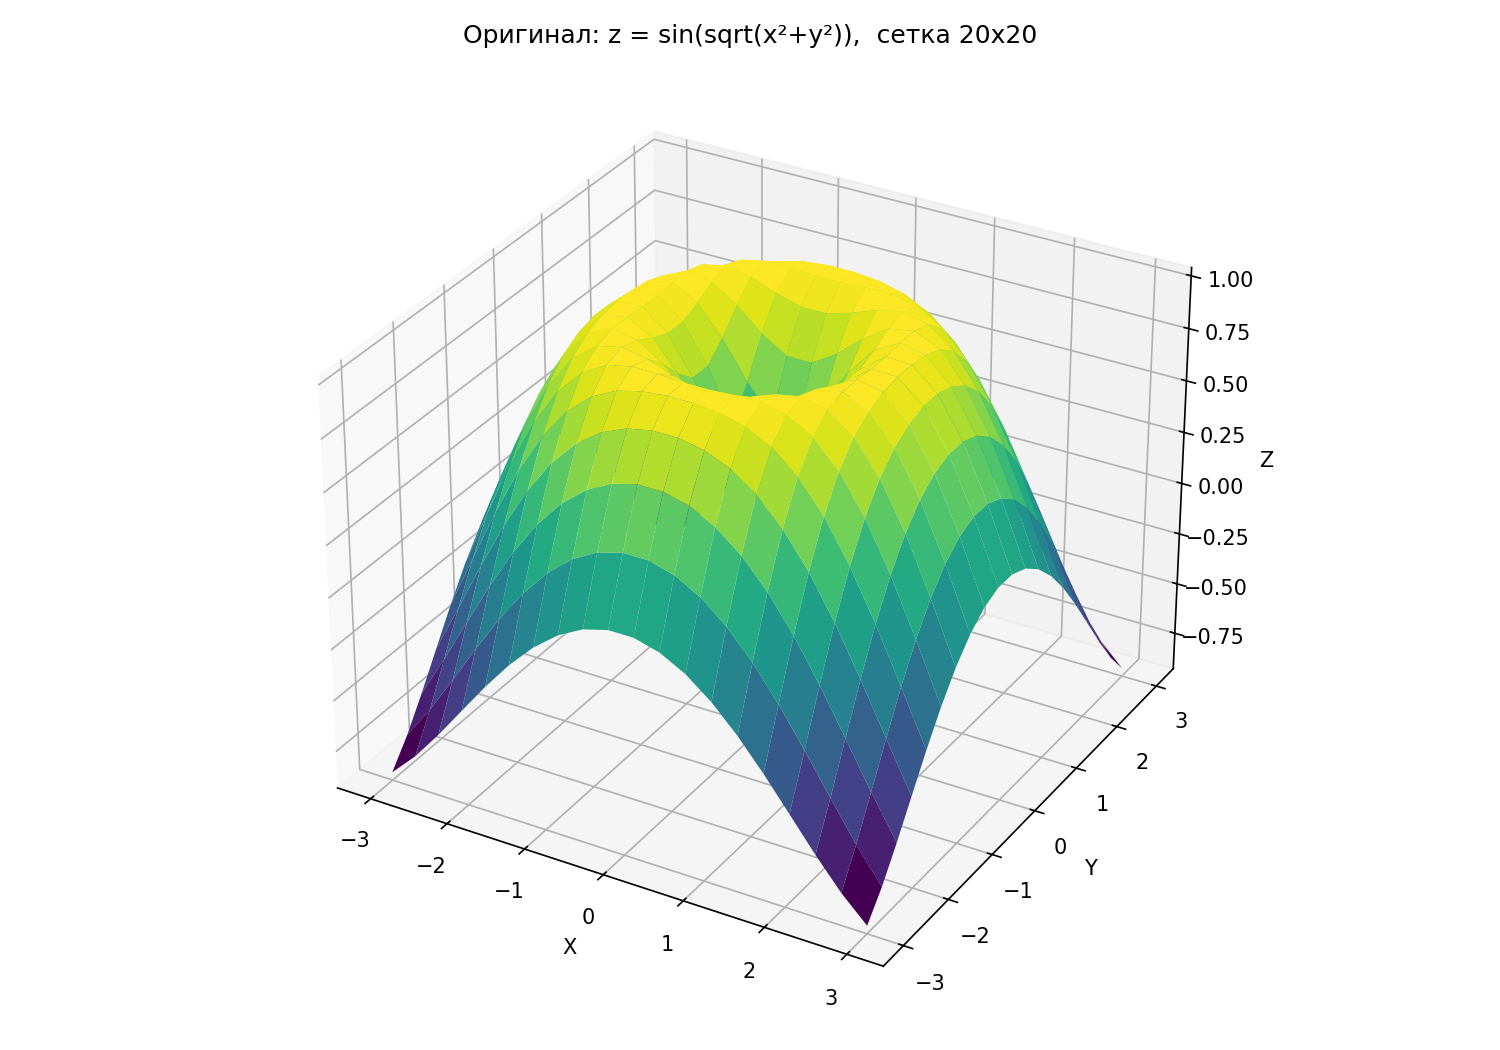
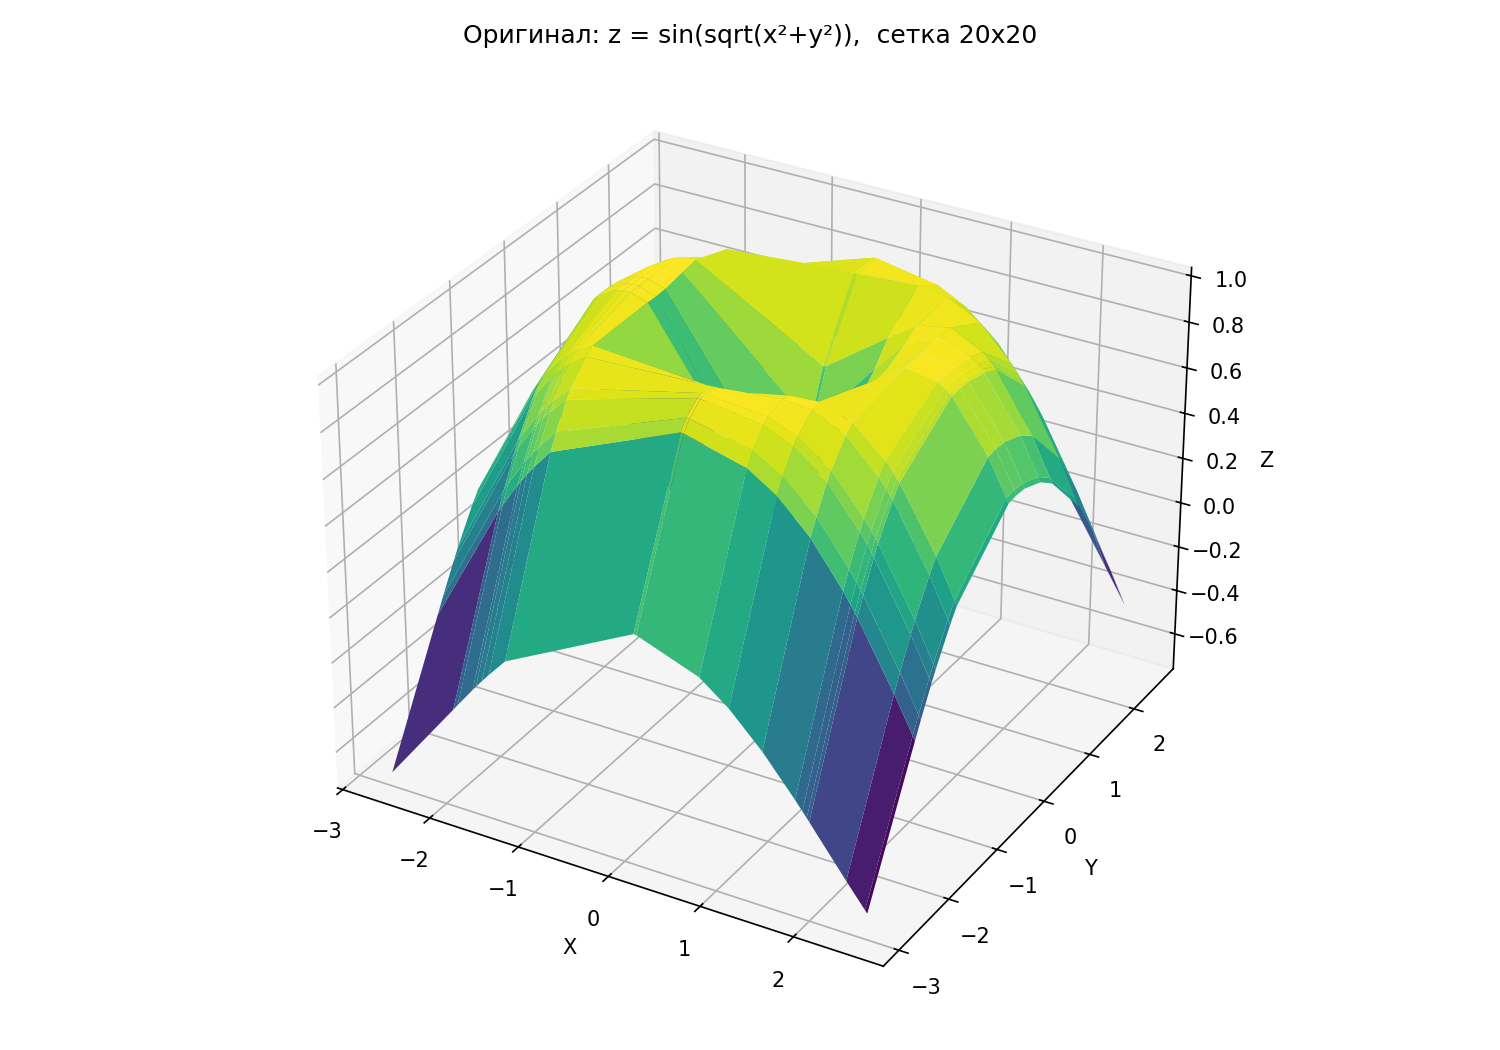
upd: lab

diff --git a/lab2/test_lab2.py b/lab2/test_lab2.py
@@ -7,47 +7,55 @@ TESTING_DIR = Path(__file__).parent / "testing"
 TESTING_DIR.mkdir(exist_ok=True)
 
 # Параметры тестов
-# Тест 1: аналитическая функция
-N_GRID = 20 # размер сетки n x n
-X_RANGE = (-3, 3) # диапазон x
-Y_RANGE = (-3, 3) # диапазон y
-Z_RANGE = (-1, 1) # ограничение на z
-# Тест 2: псевдослучайная сетка
-NX, NY = 10, 10 # размер сетки (можно 20x10 и т.д.)
-Z_MIN, Z_MAX = -1, 1 # ограничения на z
-SEED = 42 # seed генератора
-# Тест 3: сгущение
-DENSIFY_SIZES = [20, 30] # до каких размеров m x m сгущать
+N_GRID = 20
+X_RANGE = (-3, 3)
+Y_RANGE = (-3, 3)
+Z_RANGE = (-1, 1)
+SEED_T1 = 123
 
-def normalize(v):
-    lo, hi = v.min(), v.max()
+NX, NY = 10, 10
+Z_MIN, Z_MAX = -1, 1
+SEED_T2 = 42
+
+DENSIFY_SIZES = [20, 30]
+
+
+def _to_norm(v, lo, hi):
     return 2 * (v - lo) / (hi - lo) - 1
 
-# Тест 1: z = sin(sqrt(x^2+y^2)), погрешность между узлами интерполяции
 
-def test_analytical(n=20, x_range=(-3, 3), y_range=(-3, 3), z_range=(-1, 1)):
+def test_analytical(n=20, x_range=(-3, 3), y_range=(-3, 3),
+                    z_range=(-1, 1), seed=123):
     print("=" * 65)
-    print(f"  Тест 1: z = sin(sqrt(x^2+y^2)),  сетка {n}x{n}")
+    print(f"  Тест 1: z = sin(sqrt(x^2+y^2)),  псевдослучайная сетка {n}x{n}")
     print(f"  x in {list(x_range)},  y in {list(y_range)},  z in {list(z_range)}")
     print("=" * 65)
-    x = np.linspace(*x_range, n)
-    y = np.linspace(*y_range, n)
+
+    rng = np.random.default_rng(seed)
+    x = np.sort(rng.uniform(*x_range, n))
+    y = np.sort(rng.uniform(*y_range, n))
     X, Y = np.meshgrid(x, y, indexing="ij")
     A = np.sin(np.sqrt(X**2 + Y**2))
-    # промежуточные точки
+
+    print(f"  x = {np.array2string(x, precision=3, separator=', ')}")
+    print(f"  y = {np.array2string(y, precision=3, separator=', ')}")
+
+    x_lo, x_hi = x.min(), x.max()
+    y_lo, y_hi = y.min(), y.max()
+    x_norm = _to_norm(x, x_lo, x_hi)
+    y_norm = _to_norm(y, y_lo, y_hi)
+
     x_mid = (x[:-1] + x[1:]) / 2
     y_mid = (y[:-1] + y[1:]) / 2
     Xm, Ym = np.meshgrid(x_mid, y_mid, indexing="ij")
     Z_true = np.sin(np.sqrt(Xm**2 + Ym**2))
-    # нормализация
-    to_norm = lambda v: 2 * (v - x_range[0]) / (x_range[1] - x_range[0]) - 1
-    x_mid_norm = to_norm(x_mid)
-    y_mid_norm = to_norm(y_mid)
-    # поиск минимума MAX погрешности между узлами
+    x_mid_norm = _to_norm(x_mid, x_lo, x_hi)
+    y_mid_norm = _to_norm(y_mid, y_lo, y_hi)
+
     best_l, best_max = 2, np.inf
     results = []
     for l in range(2, n + 1):
-        D = compute_coefficients(A, l)
+        D = compute_coefficients(A, l, x_grid=x_norm, y_grid=y_norm)
         Z_model = reconstruct(D, x_mid_norm, y_mid_norm)
         err = np.abs(Z_model - Z_true)
         min_err = float(np.min(err))
@@ -56,11 +64,12 @@ def test_analytical(n=20, x_range=(-3, 3), y_range=(-3, 3), z_range=(-1, 1)):
         if max_err < best_max:
             best_max = max_err
             best_l = l
+
     best_min = [r[1] for r in results if r[0] == best_l][0]
-    print(f"  Лучшее l = {best_l}:")
+    print(f"\n  Лучшее l = {best_l}:")
     print(f"    MIN погрешности между узлами = {best_min:.6f}")
     print(f"    MAX погрешности между узлами = {best_max:.6f}")
-    # график: погрешность vs l
+
     ls = [r[0] for r in results]
     min_errs = [r[1] for r in results]
     max_errs = [r[2] for r in results]
@@ -70,13 +79,13 @@ def test_analytical(n=20, x_range=(-3, 3), y_range=(-3, 3), z_range=(-1, 1)):
     ax.axvline(best_l, color="g", ls="--", alpha=0.7, label=f"лучшее l={best_l}")
     ax.set_xlabel("l")
     ax.set_ylabel("Погрешность между узлами")
-    ax.set_title(f"z = sin(sqrt(x^2+y^2)),  сетка {n}x{n}")
+    ax.set_title(f"z = sin(sqrt(x²+y²)),  псевдослучайная сетка {n}x{n}")
     ax.legend()
     ax.grid(True, alpha=0.3)
     fig.tight_layout()
     fig.savefig(TESTING_DIR / "test1_analytical.png", dpi=150)
     plt.close(fig)
-    # 3D: оригинал
+
     fig = plt.figure(figsize=(10, 7))
     ax = fig.add_subplot(111, projection="3d")
     ax.plot_surface(X, Y, A, cmap="viridis", linewidth=0, antialiased=True)
@@ -85,58 +94,75 @@ def test_analytical(n=20, x_range=(-3, 3), y_range=(-3, 3), z_range=(-1, 1)):
     fig.tight_layout()
     fig.savefig(TESTING_DIR / "test1_original.png", dpi=150)
     plt.close(fig)
-    # 3D: восстановленная модель
-    D_best = compute_coefficients(A, best_l)
-    xn = to_norm(x)
-    yn = to_norm(y)
-    Z_model = reconstruct(D_best, xn, yn)
+
+    D_best = compute_coefficients(A, best_l, x_grid=x_norm, y_grid=y_norm)
+    m_vis = 60
+    xg = np.linspace(-1, 1, m_vis)
+    yg = np.linspace(-1, 1, m_vis)
+    Z_vis = reconstruct(D_best, xg, yg)
+    x_vis = np.linspace(x_lo, x_hi, m_vis)
+    y_vis = np.linspace(y_lo, y_hi, m_vis)
+    Xv, Yv = np.meshgrid(x_vis, y_vis, indexing="ij")
+
     fig = plt.figure(figsize=(10, 7))
     ax = fig.add_subplot(111, projection="3d")
-    ax.plot_surface(X, Y, Z_model, cmap="viridis", linewidth=0, antialiased=True)
+    ax.plot_surface(Xv, Yv, Z_vis, cmap="viridis", linewidth=0, antialiased=True)
     ax.set_xlabel("X"); ax.set_ylabel("Y"); ax.set_zlabel("Z")
     ax.set_title(f"Восстановленная модель (l={best_l}),  MAX={best_max:.4f}")
     fig.tight_layout()
     fig.savefig(TESTING_DIR / "test1_reconstructed.png", dpi=150)
     plt.close(fig)
+
     return A, best_l
 
-# Тест 2: псевдослучайная сетка
-def test_random(nx=10, ny=10, x_range=(-3, 3), y_range=(-3, 3), z_min=-1, z_max=1, seed=42):
+
+def test_random(nx=10, ny=10, x_range=(-3, 3), y_range=(-3, 3),
+                z_min=-1, z_max=1, seed=42):
     print(f"\n{'='*65}")
     print(f"  Тест 2: псевдослучайная сетка {nx}x{ny},  z in [{z_min}, {z_max}]")
     print("=" * 65)
+
     rng = np.random.default_rng(seed)
     x = np.sort(rng.uniform(*x_range, nx))
     y = np.sort(rng.uniform(*y_range, ny))
     Z = rng.uniform(z_min, z_max, (nx, ny))
+
     print(f"  x = {np.array2string(x, precision=3, separator=', ')}")
     print(f"  y = {np.array2string(y, precision=3, separator=', ')}")
     print(f"\n  Исходная матрица Z ({nx}x{ny}):")
     _print_matrix(Z, x, y)
-    x_norm = normalize(x)
-    y_norm = normalize(y)
+
+    x_lo, x_hi = x.min(), x.max()
+    y_lo, y_hi = y.min(), y.max()
+    x_norm = _to_norm(x, x_lo, x_hi)
+    y_norm = _to_norm(y, y_lo, y_hi)
     l_max = min(nx, ny)
-    x_mid = (x_norm[:-1] + x_norm[1:]) / 2
-    y_mid = (y_norm[:-1] + y_norm[1:]) / 2
+
+    x_mid_norm = (_to_norm(x[:-1], x_lo, x_hi) + _to_norm(x[1:], x_lo, x_hi)) / 2
+    y_mid_norm = (_to_norm(y[:-1], y_lo, y_hi) + _to_norm(y[1:], y_lo, y_hi)) / 2
+
     best_l = l_max
     results = []
     for l in range(2, l_max + 1):
         D = compute_coefficients(Z, l, x_grid=x_norm, y_grid=y_norm)
         Z_recon = reconstruct(D, x_norm, y_norm)
         err = np.abs(Z_recon - Z)
-        Z_mid = reconstruct(D, x_mid, y_mid)
+        Z_mid = reconstruct(D, x_mid_norm, y_mid_norm)
         overshoot = max(0.0, float(Z_mid.max()) - z_max, z_min - float(Z_mid.min()))
         results.append((l, float(np.min(err)), float(np.max(err)), overshoot))
+
     for l, mn, mx, ov in reversed(results):
         if ov < 0.5 * (z_max - z_min):
             best_l = l
             break
+
     D = compute_coefficients(Z, best_l, x_grid=x_norm, y_grid=y_norm)
     Z_recon = reconstruct(D, x_norm, y_norm)
     err = np.abs(Z_recon - Z)
     print(f"\n  Выбрано l = {best_l}:")
     print(f"    MIN погрешности в узлах = {float(np.min(err)):.2e}")
     print(f"    MAX погрешности в узлах = {float(np.max(err)):.2e}")
+
     ls = [r[0] for r in results]
     min_errs = [r[1] for r in results]
     max_errs = [r[2] for r in results]
@@ -152,7 +178,7 @@ def test_random(nx=10, ny=10, x_range=(-3, 3), y_range=(-3, 3), z_min=-1, z_max=
     fig.tight_layout()
     fig.savefig(TESTING_DIR / "test2_error.png", dpi=150)
     plt.close(fig)
-    # 3D: исходные точки
+
     Xo, Yo = np.meshgrid(x, y, indexing="ij")
     fig = plt.figure(figsize=(10, 7))
     ax = fig.add_subplot(111, projection="3d")
@@ -162,14 +188,15 @@ def test_random(nx=10, ny=10, x_range=(-3, 3), y_range=(-3, 3), z_min=-1, z_max=
     fig.tight_layout()
     fig.savefig(TESTING_DIR / "test2_original.png", dpi=150)
     plt.close(fig)
-    # 3D: восстановленная модель на более густой сетке
+
     m_vis = 40
     xg = np.linspace(-1, 1, m_vis)
     yg = np.linspace(-1, 1, m_vis)
     Z_vis = reconstruct(D, xg, yg)
-    x_vis = np.linspace(x.min(), x.max(), m_vis)
-    y_vis = np.linspace(y.min(), y.max(), m_vis)
+    x_vis = np.linspace(x_lo, x_hi, m_vis)
+    y_vis = np.linspace(y_lo, y_hi, m_vis)
     Xv, Yv = np.meshgrid(x_vis, y_vis, indexing="ij")
+
     fig = plt.figure(figsize=(10, 7))
     ax = fig.add_subplot(111, projection="3d")
     ax.plot_surface(Xv, Yv, Z_vis, cmap="terrain", linewidth=0, antialiased=True)
@@ -178,22 +205,26 @@ def test_random(nx=10, ny=10, x_range=(-3, 3), y_range=(-3, 3), z_min=-1, z_max=
     fig.tight_layout()
     fig.savefig(TESTING_DIR / "test2_reconstructed.png", dpi=150)
     plt.close(fig)
+
     return D, x, y, Z
 
-# Тест 3: сгущение сетки
+
 def test_densify(D, x_orig, y_orig, Z_orig, m=20):
     nx, ny = len(x_orig), len(y_orig)
     print(f"\n{'='*65}")
     print(f"  Тест 3: сгущение {nx}x{ny} -> {m}x{m}")
     print("=" * 65)
+
     xg = np.linspace(-1, 1, m)
     yg = np.linspace(-1, 1, m)
     Z_dense = reconstruct(D, xg, yg)
+
     x_phys = np.linspace(x_orig.min(), x_orig.max(), m)
     y_phys = np.linspace(y_orig.min(), y_orig.max(), m)
+
     print(f"\n  Сгущённая матрица высот ({m}x{m}):")
     _print_matrix(Z_dense, x_phys, y_phys)
-    # 3D: исходная сетка
+
     Xo, Yo = np.meshgrid(x_orig, y_orig, indexing="ij")
     fig = plt.figure(figsize=(10, 7))
     ax = fig.add_subplot(111, projection="3d")
@@ -203,7 +234,7 @@ def test_densify(D, x_orig, y_orig, Z_orig, m=20):
     fig.tight_layout()
     fig.savefig(TESTING_DIR / f"test3_original_{nx}x{ny}.png", dpi=150)
     plt.close(fig)
-    # 3D: сгущённая сетка
+
     X, Y = np.meshgrid(x_phys, y_phys, indexing="ij")
     fig = plt.figure(figsize=(10, 7))
     ax = fig.add_subplot(111, projection="3d")
@@ -213,7 +244,9 @@ def test_densify(D, x_orig, y_orig, Z_orig, m=20):
     fig.tight_layout()
     fig.savefig(TESTING_DIR / f"test3_densify_{m}.png", dpi=150)
     plt.close(fig)
+
     return Z_dense
+
 
 def _print_matrix(Z, x_coords, y_coords, max_cols=10, max_rows=12):
     nr, nc = Z.shape
@@ -237,11 +270,14 @@ def _print_matrix(Z, x_coords, y_coords, max_cols=10, max_rows=12):
     if trunc_r:
         print(f"  {'...':>6}")
 
+
 def main():
-    test_analytical(n=N_GRID, x_range=X_RANGE, y_range=Y_RANGE, z_range=Z_RANGE)
-    D, x, y, Z = test_random(nx=NX, ny=NY, z_min=Z_MIN, z_max=Z_MAX, seed=SEED)
+    test_analytical(n=N_GRID, x_range=X_RANGE, y_range=Y_RANGE,
+                    z_range=Z_RANGE, seed=SEED_T1)
+    D, x, y, Z = test_random(nx=NX, ny=NY, z_min=Z_MIN, z_max=Z_MAX, seed=SEED_T2)
     for m in DENSIFY_SIZES:
         test_densify(D, x, y, Z, m=m)
+
 
 if __name__ == "__main__":
     main()
